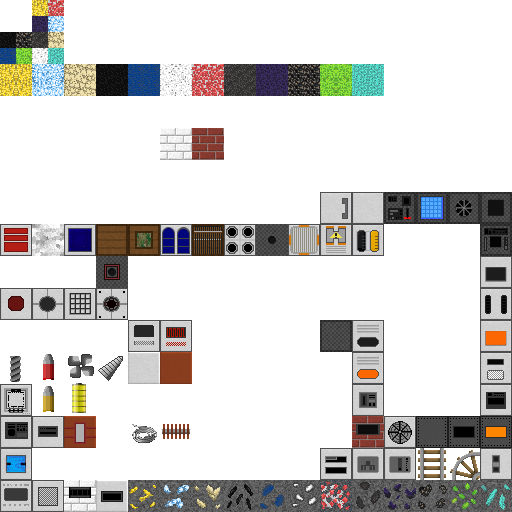
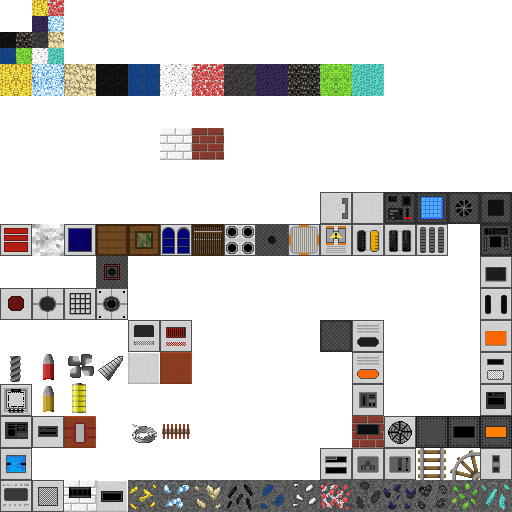
bug

Changed region(s): [[0.75, 0.4375, 0.875, 0.5]]

diff --git a/Widgets/TGeneratorWidget.cs b/Widgets/TGeneratorWidget.cs
@@ -1,0 +1,79 @@
+using Engine;
+using System.Xml.Linq;
+
+namespace Game
+{
+	public class TGeneratorWidget : CanvasWidget
+	{
+		protected readonly ComponentMachine m_componentFurnace;
+
+		protected readonly GridPanelWidget m_furnaceGrid;
+
+		protected readonly InventorySlotWidget m_result1;
+
+		protected readonly InventorySlotWidget m_result2;
+
+		protected readonly InventorySlotWidget m_result3;
+
+		protected readonly InventorySlotWidget m_cir1;
+		protected readonly InventorySlotWidget m_cir2;
+
+		protected readonly GridPanelWidget m_inventoryGrid;
+
+		protected readonly ValueBarWidget m_progress;
+		protected readonly CheckboxWidget m_acceptsDropsBox;
+
+		public TGeneratorWidget(IInventory inventory, ComponentMachine componentFurnace, string path = "Widgets/SeperatorWidget")
+		{
+			m_componentFurnace = componentFurnace;
+			WidgetsManager.LoadWidgetContents(this, this, ContentManager.Get<XElement>(path));
+			m_inventoryGrid = Children.Find<GridPanelWidget>("InventoryGrid");
+			m_furnaceGrid = Children.Find<GridPanelWidget>("FurnaceGrid");
+			Children.Find<LabelWidget>("Label1").Text = "ThermalGenerator";
+			m_result1 = Children.Find<InventorySlotWidget>("ResultSlot1");
+			m_result2 = Children.Find<InventorySlotWidget>("ResultSlot2");
+			m_result3 = Children.Find<InventorySlotWidget>("ResultSlot3");
+			m_cir1 = Children.Find<InventorySlotWidget>("CircuitSlot1", false);
+			m_cir2 = Children.Find<InventorySlotWidget>("CircuitSlot2", false);
+			m_acceptsDropsBox = Children.Find<CheckboxWidget>("AcceptsElectBox", false);
+			m_progress = Children.Find<ValueBarWidget>("Progress");
+
+			int num = 6, y, x;
+			InventorySlotWidget inventorySlotWidget;
+			for (y = 0; y < m_inventoryGrid.RowsCount; y++)
+			{
+				for (x = 0; x < m_inventoryGrid.ColumnsCount; x++)
+				{
+					inventorySlotWidget = new InventorySlotWidget();
+					inventorySlotWidget.AssignInventorySlot(inventory, num++);
+					m_inventoryGrid.Children.Add(inventorySlotWidget);
+					m_inventoryGrid.SetWidgetCell(inventorySlotWidget, new Point2(x, y));
+				}
+			}
+
+			num = 0;
+			for (y = 0; y < m_furnaceGrid.RowsCount; y++)
+			{
+				for (x = 0; x < m_furnaceGrid.ColumnsCount; x++)
+				{
+					inventorySlotWidget = new InventorySlotWidget();
+					inventorySlotWidget.AssignInventorySlot(componentFurnace, num++);
+					m_furnaceGrid.Children.Add(inventorySlotWidget);
+					m_furnaceGrid.SetWidgetCell(inventorySlotWidget, new Point2(x, y));
+				}
+			}
+			m_result1.AssignInventorySlot(componentFurnace, num++);
+			m_result2.AssignInventorySlot(componentFurnace, num++);
+			m_result3.AssignInventorySlot(componentFurnace, num++);
+			m_cir1?.AssignInventorySlot(componentFurnace, num++);
+			m_cir2?.AssignInventorySlot(componentFurnace, num++);
+		}
+
+		public override void Update()
+		{
+			m_progress.Value = m_componentFurnace.SmeltingProgress;
+			if (!m_componentFurnace.IsAddedToProject)
+				ParentWidget.Children.Remove(this);
+		}
+	}
+}

diff --git a/Components/ComponentTGenerator.cs b/Components/ComponentTGenerator.cs
@@ -1,0 +1,113 @@
+using Engine;
+using GameEntitySystem;
+using System;
+using TemplatesDatabase;
+
+namespace Game
+{
+	public class ComponentTGenerator : ComponentMachine, IUpdateable
+	{
+		public bool Powered;
+
+		protected readonly int[] result = new int[3];
+
+		protected string m_smeltingRecipe, m_smeltingRecipe2;
+
+		//protected int m_music;
+		
+		public override int RemainsSlotIndex => -1;
+
+		public override int ResultSlotIndex => SlotsCount - 1;
+
+		//public float m_fireTimeRemaining;
+
+		public int UpdateOrder => 0;
+
+		public void Update(float dt)
+		{
+			if (m_updateSmeltingRecipe)
+			{
+				m_updateSmeltingRecipe = false;
+				m_smeltingRecipe2 = FindSmeltingRecipe();
+				if (m_smeltingRecipe2 != m_smeltingRecipe)
+				{
+					m_smeltingRecipe = m_smeltingRecipe2;
+					SmeltingProgress = 0f;
+					if (m_fireTimeRemaining == 0f)
+						m_fireTimeRemaining = 1f;
+				}
+
+			}
+			if (m_smeltingRecipe2 != null)
+			{
+				
+				if (m_smeltingRecipe == null)
+					m_smeltingRecipe = m_smeltingRecipe2;
+
+			}
+			if (m_smeltingRecipe != null)
+			{
+				Powered = true;
+				m_fireTimeRemaining = MathUtils.Min(m_fireTimeRemaining - 0.01f * dt, 1f);
+				SmeltingProgress = 1f - m_fireTimeRemaining;
+				if (SmeltingProgress >= 1f)
+				{
+					if (m_slots[0].Count > 0)
+						m_slots[0].Count--;
+					for (int j = 0; j < 3; j++)
+					{
+						if (result[j] != 0)
+						{
+							m_slots[1 + j].Value = result[j];
+							m_slots[1 + j].Count++;
+							m_smeltingRecipe = null;
+							SmeltingProgress = 0f;
+							m_updateSmeltingRecipe = true;
+							m_fireTimeRemaining = 0f;
+						}
+					}
+				}
+			}else
+			{
+				Powered = false;
+				//m_fireTimeRemaining = 0f;
+			}
+		}
+
+		public override void Load(ValuesDictionary valuesDictionary, IdToEntityMap idToEntityMap)
+		{
+			base.Load(valuesDictionary, idToEntityMap);
+			m_furnaceSize = SlotsCount - 1;
+			m_fireTimeRemaining = valuesDictionary.GetValue("FireTimeRemaining", 0f);
+			HeatLevel = valuesDictionary.GetValue("HeatLevel", 0f);
+		}
+
+		protected string FindSmeltingRecipe()
+		{
+			Array.Clear(result, 0, 3);
+			string text = null;
+			int i;
+			for (i = 0; i < m_furnaceSize; i++)
+			{
+				if (GetSlotCount(i) <= 0) continue;
+				int value = GetSlotValue(i);
+				if (value == MagmaBucketBlock.Index )
+				{
+					text = "AluminumOrePowder";
+					result[0] = EmptyBucketBlock.Index;
+					result[1] = BasaltBlock.Index;
+					
+				}
+			}
+			if (text == null)
+				return null;
+			for (i = 0; i < 3; i++)
+			{
+				Slot slot = m_slots[1 + i];
+				if (slot.Count != 0 && result[i] != 0 && (slot.Value != result[i] || slot.Count >= 40))
+					return null;
+			}
+			return "";
+		}
+	}
+}

diff --git a/Circuit/CircuitDevices.cs b/Circuit/CircuitDevices.cs
@@ -438,8 +438,7 @@ namespace Game
         {
             if (Component.Charged)
             {
-				
-				Component.m_fireTimeRemaining= MathUtils.Min(Component.m_fireTimeRemaining+voltage, 10000000f);
+				Component.m_fireTimeRemaining = MathUtils.Min(Component.m_fireTimeRemaining+voltage, 10000000f);
 				voltage=0;
 			}
             else if (Component.m_fireTimeRemaining>=310f)
@@ -544,7 +543,56 @@ namespace Game
 			int? color = PaintableItemBlock.GetColor(Terrain.ExtractData(value));
 			return color.HasValue ? 1 << color.Value : 2147483647;
 		}
+	}
+	public class TGenerator : InteractiveEntityDevice<ComponentTGenerator>, IElectricElementBlock
+	{
+		public TGenerator() : base("TGenerator", "热能发电机", "热能发电机是一种利用金属温差发电的装置，它可以把岩浆转换为能量") { Type = ElementType.Supply | ElementType.Connector; }
 
-		
+		public override void Simulate(ref int voltage)
+		{
+			if (Component.Powered)
+			{
+				voltage += 310;
+			}
+				
+		}
+
+		public override void OnBlockAdded(SubsystemTerrain subsystemTerrain, int value, int oldValue)
+		{
+			base.OnBlockAdded(subsystemTerrain, value, oldValue);
+			//Component.Powered = false;
+		}
+
+		public override int GetFaceTextureSlot(int face, int value)
+		{
+			return face != 4 && face != 5 && face == (Terrain.ExtractData(value) >> 15) ? 125 : 107;
+			//face == direction ? GetHeatLevel(value) > 0 ? 124 : 124 : face == CellFace.OppositeFace(direction) ? 107 : 159;
+		}
+
+		public override BlockPlacementData GetPlacementValue(SubsystemTerrain subsystemTerrain, ComponentMiner componentMiner, int value, TerrainRaycastResult raycastResult)
+		{
+			return GetPlacementValue(36, componentMiner, value, raycastResult);
+		}
+
+		public override Widget GetWidget(IInventory inventory, ComponentTGenerator component)
+		{
+			return new TGeneratorWidget(inventory, component);
+		}
+
+		public ElectricElement CreateElectricElement(SubsystemElectricity subsystemElectricity, int value, int x, int y, int z)
+		{
+			return new CraftingMachineElectricElement(subsystemElectricity, new Point3(x, y, z));
+		}
+
+		public ElectricConnectorType? GetConnectorType(SubsystemTerrain terrain, int value, int face, int connectorFace, int x, int y, int z)
+		{
+			return face == 4 || face == 5 ? (ElectricConnectorType?)ElectricConnectorType.Input : null;
+		}
+
+		public int GetConnectionMask(int value)
+		{
+			int? color = PaintableItemBlock.GetColor(Terrain.ExtractData(value));
+			return color.HasValue ? 1 << color.Value : 2147483647;
+		}
 	}
 }

diff --git a/Components/ComponentCharger.cs b/Components/ComponentCharger.cs
@@ -100,19 +100,19 @@ namespace Game
 			//base.Load(valuesDictionary, idToEntityMap);
 			
 			this.LoadItems(valuesDictionary);
-		//	m_componentBlockEntity = Entity.FindComponent<ComponentBlockEntity>(true);
+			//	m_componentBlockEntity = Entity.FindComponent<ComponentBlockEntity>(true);
 			//m_subsystemExplosions = Project.FindSubsystem<SubsystemExplosions>(true);
 			//m_componentBlockEntity = Entity.FindComponent<ComponentBlockEntity>(true);
 
-			//m_furnaceSize = SlotsCount - 1;
-			//m_fireTimeRemaining = valuesDictionary.GetValue("FireTimeRemaining", 0f);
+			//m_furnaceSize = SlotsCount - 1;  face == 4 || face == 5 ? 114 : 122
+			Charged = valuesDictionary.GetValue("FireTimeRemaining", 0f)==1f;
 			//m_updateSmeltingRecipe = true;
 		}
 
 		public override void Save(ValuesDictionary valuesDictionary, EntityToIdMap entityToIdMap)
 		{
 			this.SaveItems(valuesDictionary);
-			//valuesDictionary.SetValue("FireTimeRemaining", m_fireTimeRemaining);
+			valuesDictionary.SetValue("FireTimeRemaining", Charged ? 1f:0f);
 		}
 
 		public override int GetSlotCapacity(int slotIndex, int value)

diff --git a/Components/ComponentCondenser.cs b/Components/ComponentCondenser.cs
@@ -11,24 +11,24 @@ namespace Game
 		public bool Powered;
 		public bool Charged;
 		public float m_fireTimeRemaining;
-		
-		//public static Func<int, int, int> DamageItem1;
-		
+
+		//public static Func<int, int, int> DamageItem1;  face == 4 || face == 5 ? 114 : 122
+
 
 		public override void Load(ValuesDictionary valuesDictionary, IdToEntityMap idToEntityMap)
 		{
 			
 			
 			this.LoadItems(valuesDictionary);
-		
 			m_fireTimeRemaining = valuesDictionary.GetValue("FireTimeRemaining", 0f);
-			
+			Charged = valuesDictionary.GetValue("HeatLevel", 0f)==0f?true:false;
 		}
 
 		public override void Save(ValuesDictionary valuesDictionary, EntityToIdMap entityToIdMap)
 		{
 			this.SaveItems(valuesDictionary);
 			valuesDictionary.SetValue("FireTimeRemaining", m_fireTimeRemaining);
+			valuesDictionary.SetValue("HeatLevel", Charged ? 0f:1f);
 		}
 
 		

diff --git a/Blocks/Items.cs b/Blocks/Items.cs
@@ -258,8 +258,9 @@ namespace Game
                 new AirPump(),
 				new ElectricFences(),
 				new Transformer(),
-				new Charger(),
-            };
+				new Charger(),//35
+				new TGenerator(),
+			};
 			IdTable = new Dictionary<string, int>(Items.Length);
 			int i;
 			for (i = 0; i < Items.Length; i++)
